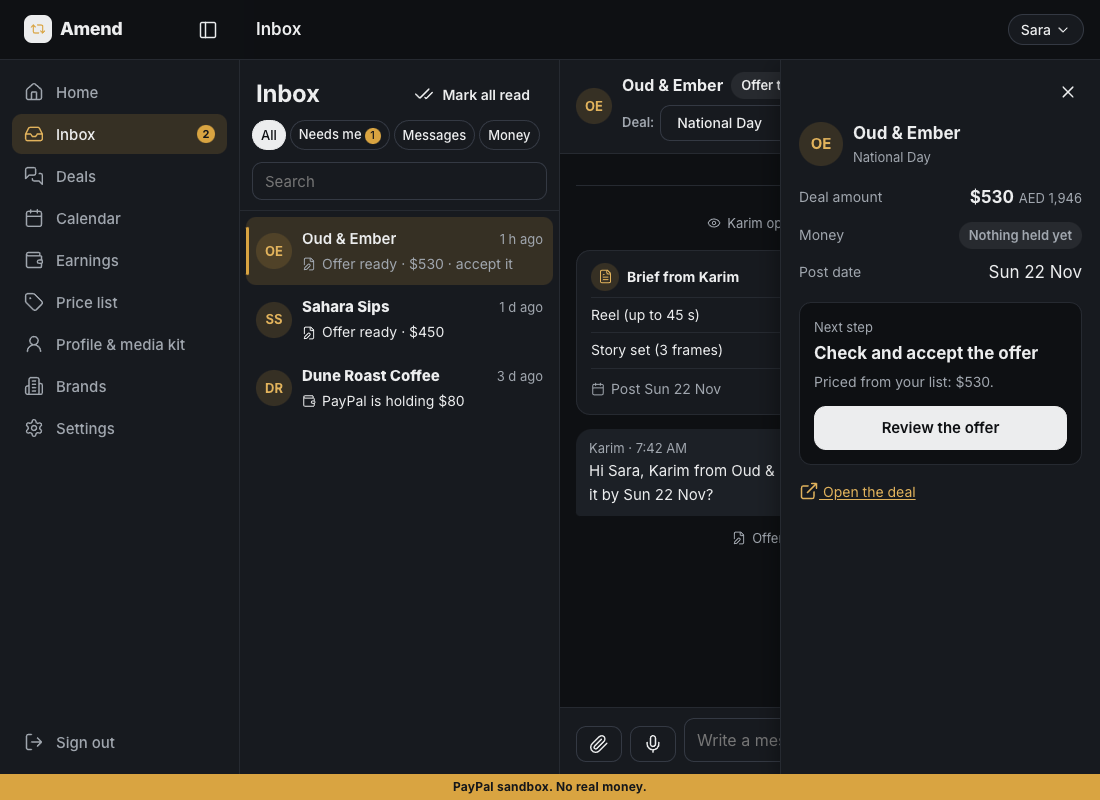
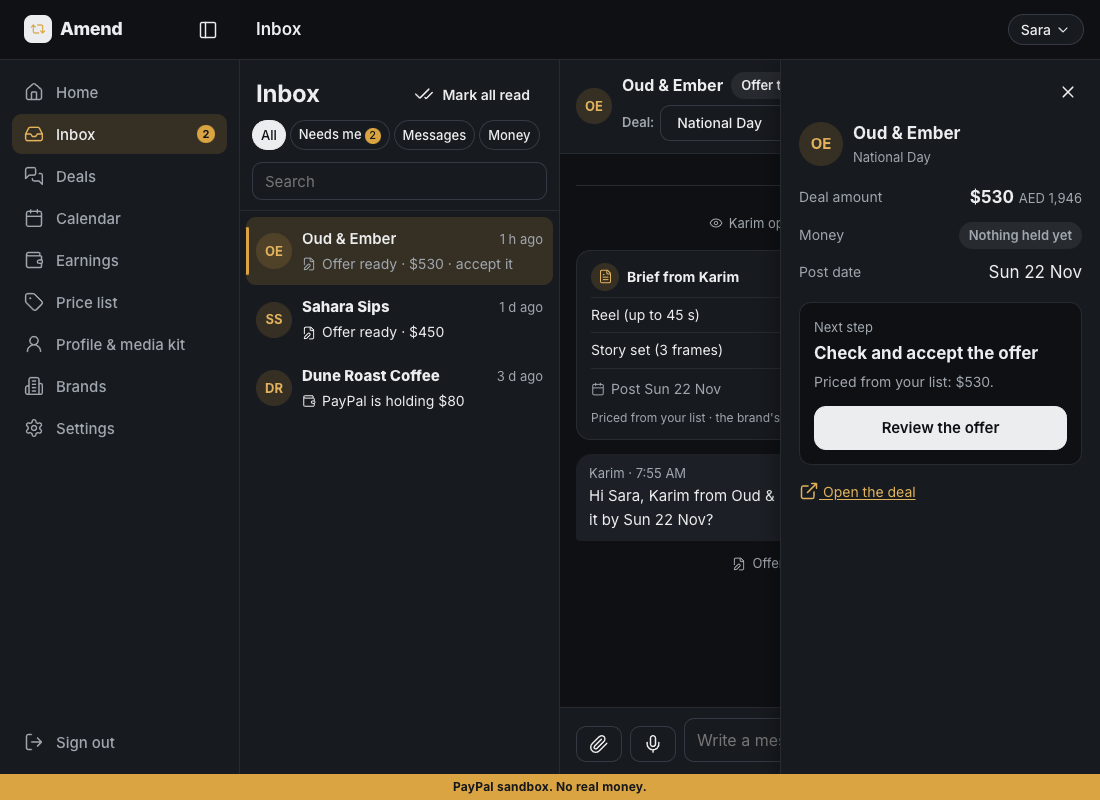
Inbox: one needs-me definition for chip, filter and badge; brief card labels prices as the creator's

Changed region(s): [[0.5255, 0.5, 0.7109, 0.6562], [0.68, 0.6562, 0.7109, 0.7188], [0.6491, 0.25, 0.7109, 0.2812]]

diff --git a/web/static/chat.js b/web/static/chat.js
@@ -85,7 +85,8 @@ const Chat = (() => {
       <div class="bc-lines">${(b.lines || []).map(l => `<div class="bc-line"><span class="grow">${esc(l.name)}${l.qty > 1 ? ` × ${l.qty}` : ""}</span>
         ${l.quote ? `<button class="q-chip" data-quote="${esc(l.quote)}" data-who="${esc(b.from)}" data-where="the brief" title="The words this came from"><i data-lucide='quote' aria-hidden='true'></i> Quote</button>` : ""}
         <b>${usd(l.amount_cents)}</b></div>`).join("") || '<p class="small muted">No priced lines yet.</p>'}</div>
-      <div class="bc-foot">${b.post_date ? `<span><i data-lucide='calendar' aria-hidden='true'></i> Post ${esc(fmtDate(b.post_date))}</span>` : "<span></span>"}<span>Total <b>${usd(b.total_cents)}</b></span></div></div>`;
+      <div class="bc-foot">${b.post_date ? `<span><i data-lucide='calendar' aria-hidden='true'></i> Post ${esc(fmtDate(b.post_date))}</span>` : "<span></span>"}<span>Total <b>${usd(b.total_cents)}</b></span></div>
+      <div class="bc-src">${isBrand ? "Priced from the creator's list" : "Priced from your list"} · the brand's words are on the Quote chips</div></div>`;  // prices are the creator's, not the brand's
   }
   function withDays(items) {
     let last = "";

diff --git a/web/static/app.css b/web/static/app.css
@@ -539,3 +539,4 @@ body.inbox-full .topsearch { display: none !important; }            /* one searc
 .ibx-tools .chips { gap: 4px; }
 .ibx-tools .chips button { padding: 0 8px; }
 .ibx-tools .chips .dot { margin-left: 3px; min-width: 16px; height: 16px; font-size: 11px; padding: 0 4px; }
+.bc-src { margin-top: 6px; font-size: 12px; color: var(--muted); }

diff --git a/amend/inbox.py b/amend/inbox.py
@@ -75,10 +75,19 @@ def _line(e: dict, deal: dict, brand: str) -> str | None:
     return None
 
 
-def entries(db: Database, creator_id: str, party_id: str, *, flt: str = "all", page: int = 0) -> dict:
+def needs_me_brands(db: Database, creator: dict) -> set[str]:
+    """THE definition of "needs me" for the Inbox: brands (conversations) with something for the creator to do now.
+    Used for the "Needs me" chip, its filter and the nav badge, so they always agree."""
+    from amend import studio
+    by_deal = {d["id"]: d["brand_org"] for d in db.all("select id, brand_org from deals where creator_id = :c", {"c": creator["id"]})}
+    return {by_deal[n["deal"]] for n in studio.needs_you(db, creator) if n["deal"] in by_deal}
+
+
+def entries(db: Database, creator_id: str, party_id: str, *, flt: str = "all", page: int = 0, needs: set[str] | None = None) -> dict:
     deals = {d["id"]: d for d in db.all("select * from deals where creator_id = :c", {"c": creator_id})}
+    needs = needs or set()
     if not deals:
-        return {"items": [], "unread": 0, "more": False}
+        return {"items": [], "unread": 0, "more": False, "threads": [], "needs_threads": 0, "counts": {"all": 0, "needs_me": 0, "messages": 0, "money": 0}}
     brands = {p["id"]: p for p in db.all("select id, name, org from parties where role like 'brand%'")}
     read = {r["event_id"] for r in db.all("select event_id from inbox_reads where party_id = :p", {"p": party_id})}
     rows = db.all("select * from events where deal_id in (select id from deals where creator_id = :c) "
@@ -112,16 +121,16 @@ def entries(db: Database, creator_id: str, party_id: str, *, flt: str = "all", p
         out.append({"event_id": e["id"], "deal": deal["id"], "brand": deal["brand_org"], "icon": icon, "category": cat, "type": e["type"],
                     "line": line, "at": e["at"], "unread": e["id"] not in read, "change": ch})
     unread = sum(x["unread"] for x in out)
-    counts = {"all": len(out), "needs_me": sum(x["category"] == "needs_me" for x in out),
+    counts = {"all": len(out), "needs_me": len(needs),  # conversations that need me (same number as the badge)
               "messages": sum(x["category"] == "messages" for x in out), "money": sum(x["category"] == "money" for x in out)}
-    threads = _threads(out, deals, flt)
+    threads = _threads(out, deals, flt, needs)
     if flt != "all":
         out = [x for x in out if x["category"] == flt]
     return {"items": out[page * PAGE:(page + 1) * PAGE], "more": len(out) > (page + 1) * PAGE, "unread": unread,
-            "counts": counts, "threads": threads}
+            "counts": counts, "threads": threads, "needs_threads": len(needs)}
 
 
-def _threads(out: list[dict], deals: dict, flt: str) -> list[dict]:
+def _threads(out: list[dict], deals: dict, flt: str, needs: set[str] = frozenset()) -> list[dict]:
     """One row per brand (newest activity first): the latest line, whether it's a chat message or an activity update,
     how many deals and updates, which updates are unread, and any change card that can be confirmed from the Inbox.
     The row opens the brand's most recently active deal; `deals` lists all of them (newest first) for the deal picker.
@@ -144,7 +153,9 @@ def _threads(out: list[dict], deals: dict, flt: str) -> list[dict]:
             d = deals[x["deal"]]
             t["deals"].append({"id": d["id"], "title": d.get("title"), "total_cents": d["total_cents"], "status": d["status"], "at": x["at"],
                                "created_at": d["created_at"]})
-    rows = [t for t in by.values() if flt == "all" or flt in t["categories"]]
+    for t in by.values():
+        t["needs_me"] = t["brand"] in needs
+    rows = [t for t in by.values() if flt == "all" or (t["needs_me"] if flt == "needs_me" else flt in t["categories"])]
     for t in rows:
         t["categories"] = sorted(t["categories"])
     return sorted(rows, key=lambda t: t["at"], reverse=True)

diff --git a/tests/browser/inbox_layout.py b/tests/browser/inbox_layout.py
@@ -47,6 +47,7 @@ MEASURE = """() => {
     badge: (qa('[data-badge]').find(vis) || {}).textContent || '', previews: qa('.ibx-prev .txt').map(t => t.textContent),
     nextbar: vis(q('#ibx-nextbar')) ? R(q('#ibx-nextbar')) : null, nextText: q('#ibx-nextbar') ? q('#ibx-nextbar').innerText : '',
     toggleLabel: q('#ib-panel') ? [...q('#ib-panel').querySelectorAll('span')].filter(vis).map(s => s.textContent.trim()).join(' ') : '',
+    chipNeeds: (q('.ibx-tools .chips button[data-f=needs_me] .dot') || {}).textContent || '',
     dealRows: (IBF.threads && IBF.threads[IBF.selBrand]) ? IBF.threads[IBF.selBrand].deals.length : null };
 }"""
 
@@ -56,6 +57,7 @@ DAY = re.compile(r"^(?:Today|Yesterday|(?:Mon|Tue|Wed|Thu|Fri|Sat|Sun) [1-9]\d? 
 
 def fix_checks(m: dict, w: int, stage: str, needs: int) -> list[tuple[str, bool, str]]:
     out = []
+    out.append(("'Needs me' chip = nav badge (same number)", m["chipNeeds"] == m["badge"], f"chip={m['chipNeeds']!r} badge={m['badge']!r}"))
     out.append(("one badge = conversations that need me; no bell", m["badge"] == (str(needs) if needs else "") and not m["bell"], f"badge={m['badge']!r} api={needs} bell={m['bell']}"))
     out.append(("one search on the page (the list's own)", not m["topsearch"] and m["searches"] <= 1, f"topsearch shown={m['topsearch']} searches={m['searches']}"))
     if stage != "conv":
@@ -66,6 +68,7 @@ def fix_checks(m: dict, w: int, stage: str, needs: int) -> list[tuple[str, bool,
         out.append(("times like 2:00 PM (no leading zero)", bool(times) and not re.search(r"\b0\d:\d\d", m["chatText"]), f"e.g. {times[:2]}"))
         out.append(("day headers like Sat 21 Nov / Today", m["dayLabels"] and all(DAY.match(x.title() if x.isupper() else x) for x in m["dayLabels"]), str(m["dayLabels"][:3])))
         out.append(("brief shows as a card with quote chips", m["briefCards"] >= 1 and m["quoteChips"] >= 1, f"cards={m['briefCards']} quote chips={m['quoteChips']}"))
+        out.append(("brief card: prices labelled as the creator's", "Priced from your list" in m["chatText"], "footer 'Priced from your list'"))
         out.append(("deal dropdown only when the brand has >1 deal", m["switcher"] == ((m["dealRows"] or 0) > 1), f"dropdown={m['switcher']} deals={m['dealRows']}"))
         out.append(("offer wording, not draft", "Draft ready" not in m["chatText"] and (m["status"] or "") != "Draft to accept", f"status={m['status']!r}"))
     if w >= 1280:

diff --git a/tests/test_inbox_fixes.py b/tests/test_inbox_fixes.py
@@ -115,3 +115,21 @@ def test_seed_history_is_never_in_the_future(client, history):
     for table, col in (("events", "at"), ("messages", "at"), ("deals", "created_at"), ("money_items", "created_at")):
         latest = d.one(f"select max({col}) as m from {table}")["m"]
         assert datetime.fromisoformat(latest) <= now, (table, latest)
+
+
+# A1. one definition of "needs me": chip count, its filter and the nav badge agree (demo: 2 and 2)
+def test_needs_me_chip_and_badge_are_the_same_number(client, history):
+    r = client.get("/api/studio/inbox").json()
+    assert r["counts"]["needs_me"] == r["needs_threads"] == 2
+    f = client.get("/api/studio/inbox?filter=needs_me").json()
+    assert len(f["threads"]) == 2 and all(t["needs_me"] for t in f["threads"])
+    assert {t["brand"] for t in f["threads"]} == {t["brand"] for t in r["threads"] if t["needs_me"]}
+    pages = (ROOT / "web/static/studio-pages.js").read_text()
+    assert "badge(r.needs_threads)" in pages and "c.needs_me" in pages  # chip and badge read the same API numbers
+
+
+# A2. the brief card says whose prices they are; the brand's words stay on the Quote chips
+def test_brief_card_labels_prices_as_the_creators():
+    chat = (ROOT / "web/static/chat.js").read_text()
+    assert '"Priced from your list"' in chat and "\"Priced from the creator's list\"" in chat
+    assert "the brand's words are on the Quote chips" in chat

diff --git a/amend/app.py b/amend/app.py
@@ -465,11 +465,8 @@ def permit_check(creator_id: str):
 def my_inbox(filter: str = "all", page: int = 0, c: dict = Depends(require_creator)):
     if filter not in ("all", "needs_me", "messages", "money"):
         raise HTTPException(400, "unknown filter")
-    r = inbox.entries(get_db(), c["id"], c["party_id"], flt=filter, page=max(page, 0))
-    # badge = how many conversations (brands) have something for me to do, not how many events
-    by_deal = {d["id"]: d["brand_org"] for d in get_db().all("select id, brand_org from deals where creator_id = :c", {"c": c["id"]})}
-    r["needs_threads"] = len({by_deal.get(n["deal"]) for n in studio.needs_you(get_db(), c)})
-    return r
+    # one definition of "needs me" (inbox.needs_me_brands) feeds the chip, its filter and the nav badge
+    return inbox.entries(get_db(), c["id"], c["party_id"], flt=filter, page=max(page, 0), needs=inbox.needs_me_brands(get_db(), c))
 
 
 class ReadIn(BaseModel):

diff --git a/docs/progress.md b/docs/progress.md
@@ -245,3 +245,9 @@ Next: Block 7.
 8. Deal dropdown only when a brand has more than one deal, styled like the other inputs.
 - Tests: tests/test_inbox_fixes.py (9 checks); tests/browser/inbox_layout.py now 180 checks at 1440 / 1280 / 1100 / 390, light + dark, incl. a one-deal brand → no dropdown. Results: docs/screenshots/inbox/test-results.txt. Hero layout tests and the full browser walk still pass. Suite: 475 passed, 3 skipped.
 - Brand inbox is still the simpler one-column list (wording, badge, short previews and dates applied); the 3-pane layout is creator-side.
+
+## Two Inbox fixes (8 Nov)
+- One definition of "needs me" (inbox.needs_me_brands): the "Needs me" chip, its filter and the nav badge use it; demo shows 2 and 2.
+- Brief card says whose prices they are: "Priced from your list" (creator) / "Priced from the creator's list" (brand); the brand's words stay on the Quote chips.
+- Tests: 2 more in tests/test_inbox_fixes.py; inbox_layout.py now 198 checks, all pass. Suite: 477 passed, 3 skipped.
+- Next: Alifiya Manual Deploys on Render and finishes webhook + PAYPAL_WEBHOOK_ID, cron-job.org tick, Supabase password reset; then the live walk-through (docs/live-walk.md).
